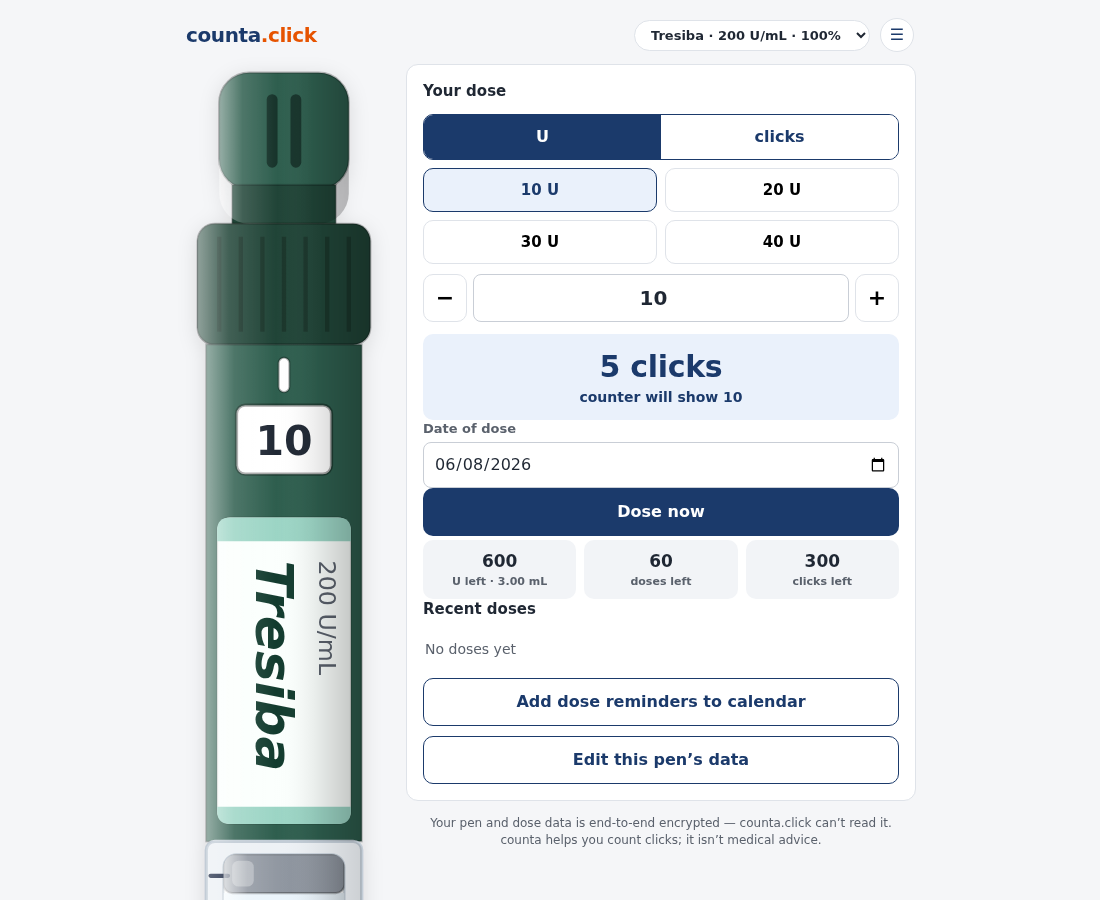
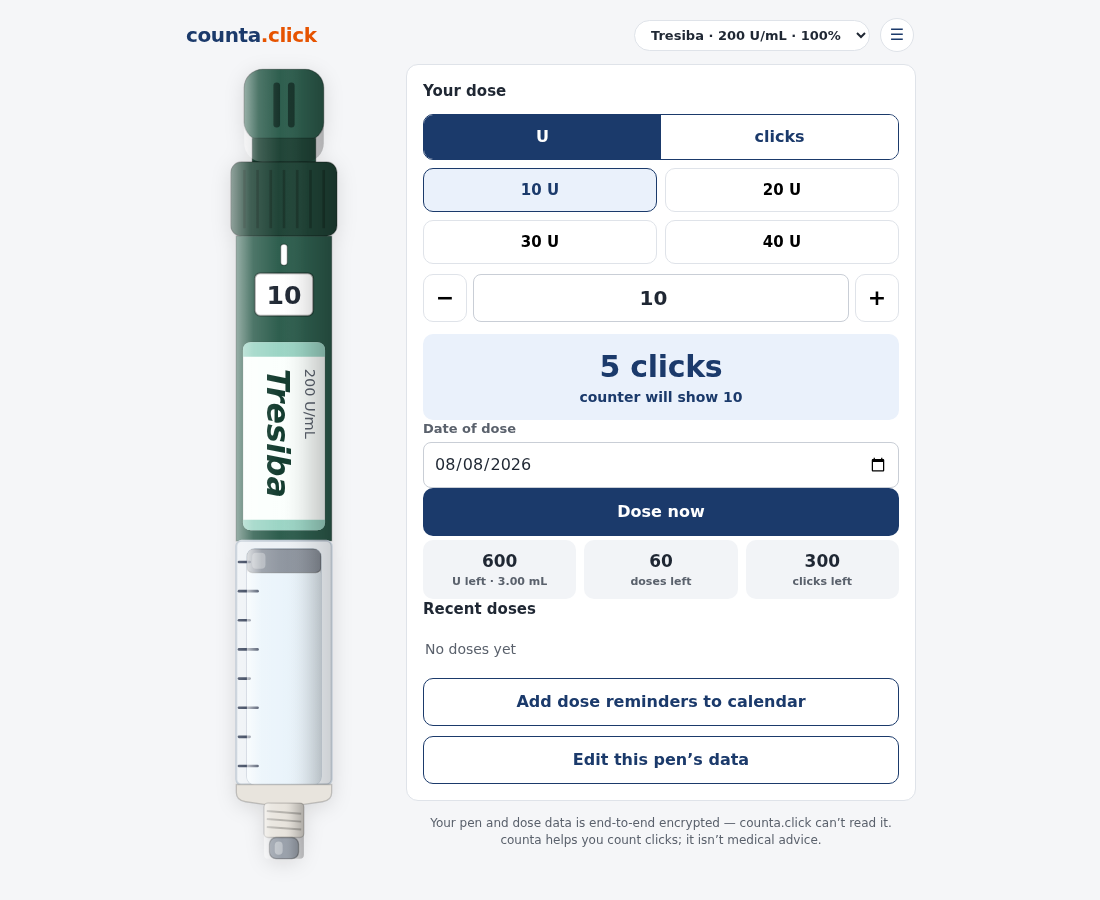
Cap the pen graphic's height so the anchor always fits the viewport
The tight viewBox from #34 removed the width bottleneck, which let the
1:6.9 pen render ~1300px tall on desktop — a sticky anchor taller than
the screen is never seen whole. Cap it at 100dvh minus the header
allowance so the whole pen stays visible; default xMidYMid letterboxing
keeps it centred in its column.

Stated plainly in the CSS comment: this is a clamp, not the fix — it
shrinks the pen to fit, the direction #20 ruled out. The height-aware
sizing pass is re-ticketed as #36 and should remove or demote this cap.

Screenshots regenerated; phone layouts are effectively unchanged since
the cap only binds where height, not width, is the constraint.

Changed region(s): [[0.1545, 0.0622, 0.34, 1.0]]

diff --git a/app/assets/stylesheets/application.css b/app/assets/stylesheets/application.css
@@ -46,7 +46,14 @@ main{display:grid;grid-template-columns:112px 1fr;gap:12px;align-items:start}
   header.top{padding:4px 0 10px}
 }
 .pen-col{position:sticky;top:8px;display:flex;flex-direction:column;align-items:center;gap:8px}
-.pen-col svg{width:100%;max-width:190px;height:auto;filter:drop-shadow(0 4px 10px rgba(0,0,0,.12))}
+/* Stopgap cap (#36): the tight viewBox from #34 lets the 1:6.9 pen grow
+ * ~1300px tall at max-width, so keep the whole pen inside the viewport —
+ * a sticky anchor taller than the screen is never seen whole. This shrinks
+ * the pen to fit, which is the direction #20 ruled out; the height-aware
+ * sizing pass in #36 should remove or demote it. */
+.pen-col svg{width:100%;max-width:190px;height:auto;
+  max-height:calc(100vh - 100px);max-height:calc(100dvh - 100px);
+  filter:drop-shadow(0 4px 10px rgba(0,0,0,.12))}
 .card{background:var(--card);border:1px solid var(--line);border-radius:var(--radius);padding:16px;margin-bottom:14px}
 .card h2{font-size:15px;margin:0 0 12px;display:flex;align-items:center;gap:8px}
 .card p{font-size:14px;margin:0 0 10px}
